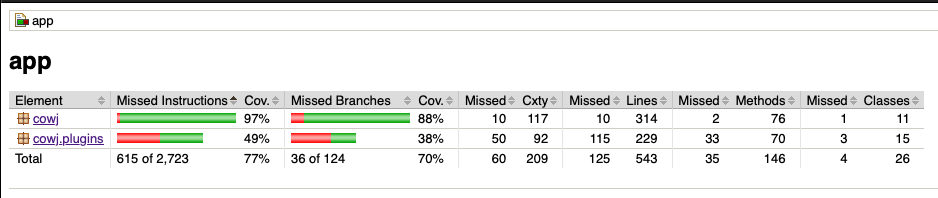
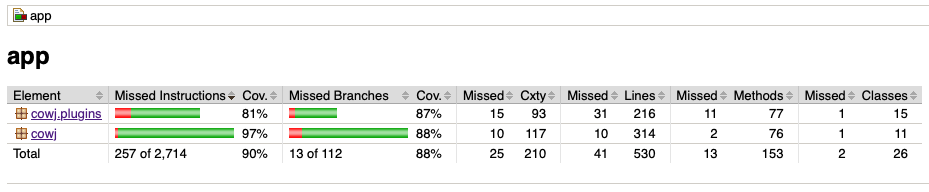
Updated latest manuals with code coverage numbers.

diff --git a/README.md b/README.md
@@ -65,12 +65,15 @@ and should have really good instruction and branch coverage.
 
 Thus the engine core is immensely tested, and is at per with industry standard quality.
 
+### Cowj Core Coverage
+
+<img src="manual/coverage-core.png" style="zoom:72%;" />
+
 ### Cowj Plugin Coverage 
 
 <img src="manual/coverage-plugin.png" style="zoom:72%;" />
 
-Hence, the plugins need more testing work done, which is expected within July 4th.
-
+Even plugins are reasonably tested, and are ready for production usage.
 
 ## Current Implementation 
 
